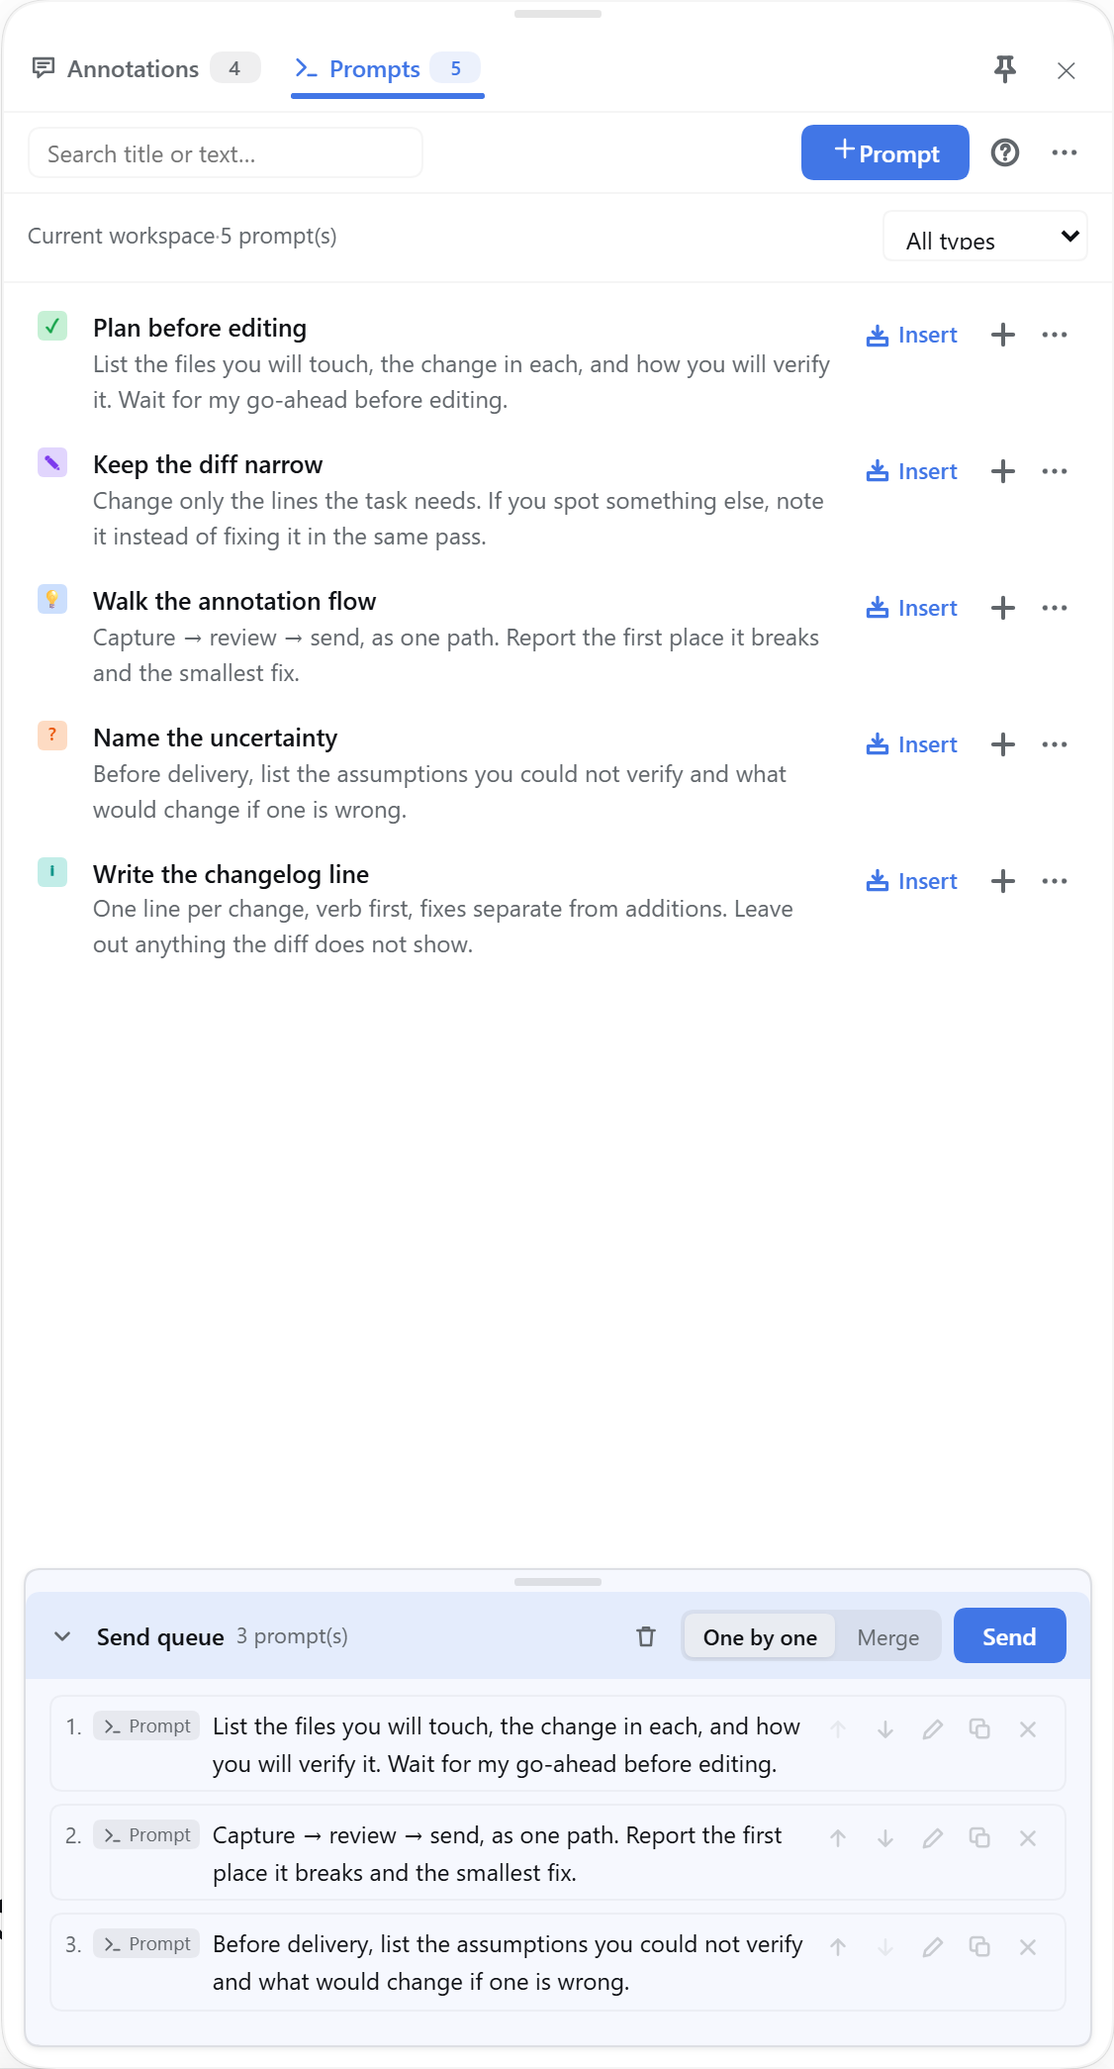
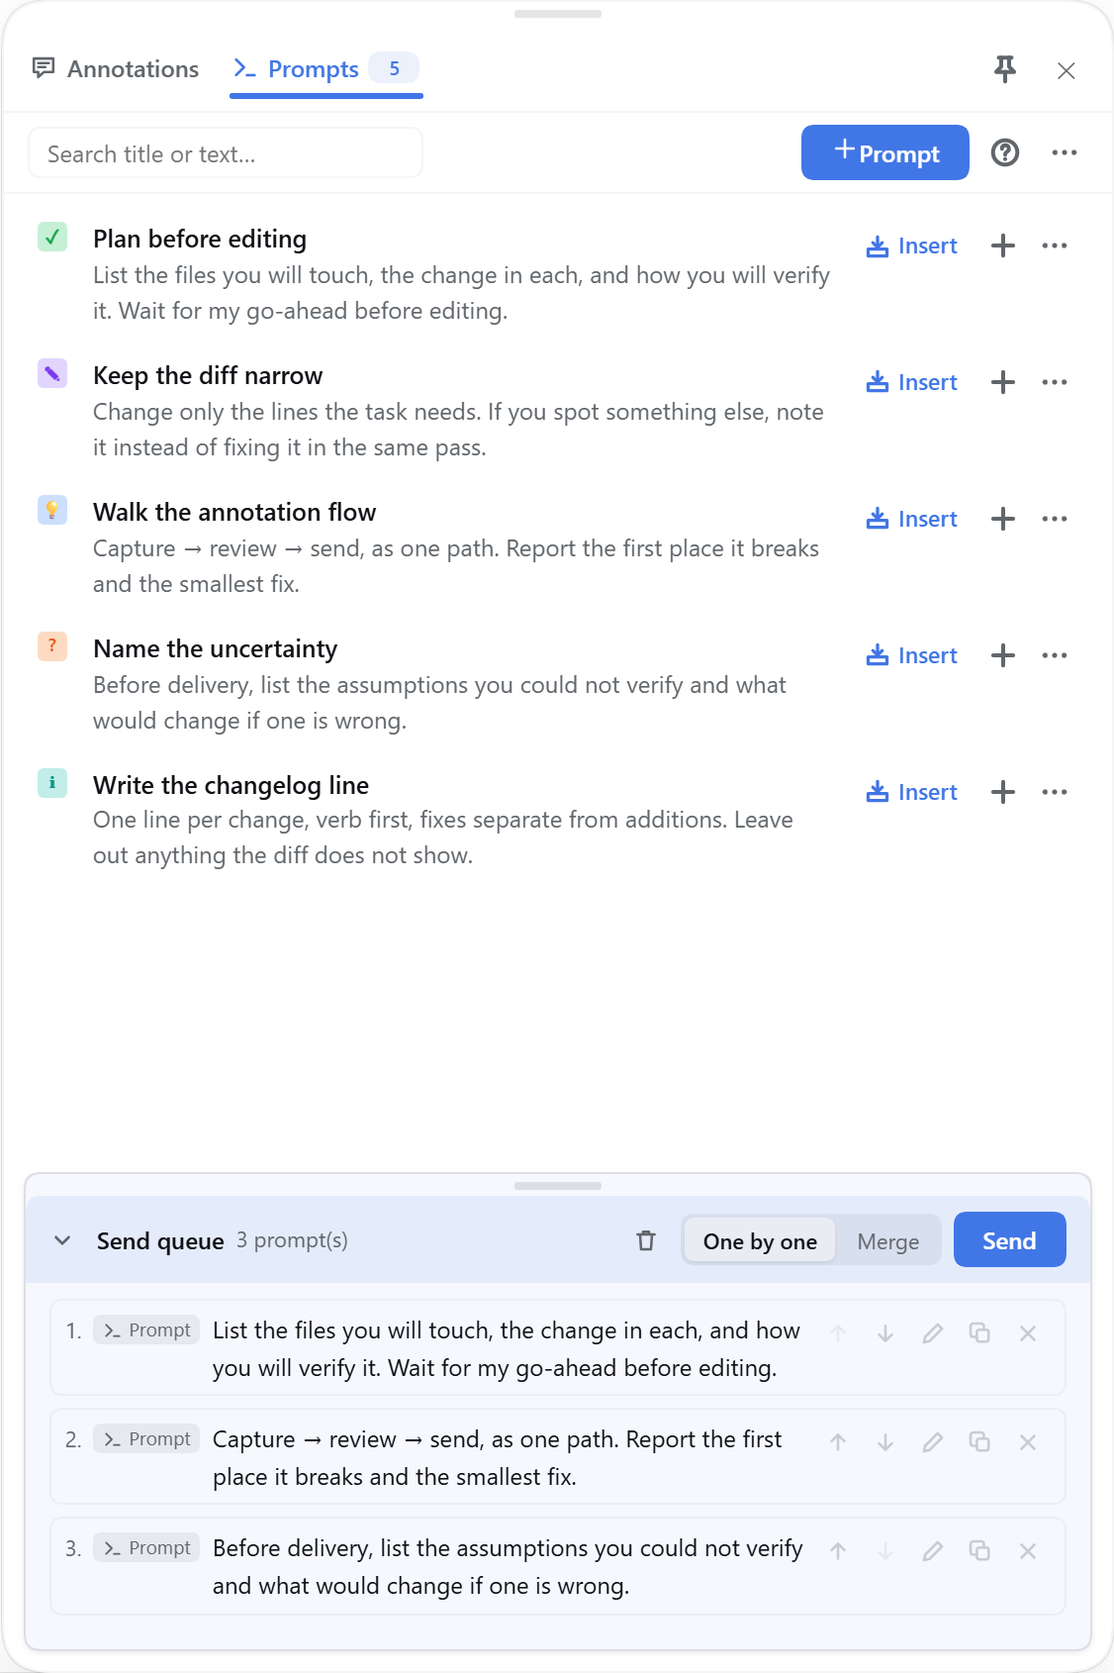
fix: clean up prompt editor controls and draft counts
Keep one type control while editing, drop the panel context line, and exclude unsaved drafts from mode counts. A second new click now reuses the open editor.

diff --git a/plugin/client.js b/plugin/client.js
@@ -122,8 +122,6 @@ window.__ModuleLoader__.load({
       'page.more': '更多',
       'page.contextNotes': '当前会话',
       'page.contextCount': '{n} 条批注',
-      'page.contextPrompts': '当前工作区',
-      'page.contextPromptCount': '{n} 条提示词',
       'page.reviewNotes': '整理批注',
       'help.open': '使用说明',
       'help.title': '提示池怎么用',
@@ -446,8 +444,6 @@ window.__ModuleLoader__.load({
       'page.more': 'More',
       'page.contextNotes': 'Current session',
       'page.contextCount': '{n} annotation(s)',
-      'page.contextPrompts': 'Current workspace',
-      'page.contextPromptCount': '{n} prompt(s)',
       'page.reviewNotes': 'Review annotations',
       'help.open': 'How it works',
       'help.title': 'How the prompt pool works',
@@ -2186,6 +2182,16 @@ window.__ModuleLoader__.load({
         if (family) counts['nested:' + family] = (counts['nested:' + family] || 0) + 1;
       }
       return counts;
+    }
+
+    /**
+     * A new row exists in the store as soon as its editor opens, so it can be
+     * patched on save. Tab counts must ignore it until that save happens.
+     */
+    function countPoolItems(items, editing) {
+      const list = Array.isArray(items) ? items : [];
+      if (!editing || editing.isNew !== true) return list;
+      return list.filter((item) => item.id !== editing.id);
     }
 
     /** Destinations offered when a captured draft is saved: the groups on show. */
@@ -4618,10 +4624,6 @@ window.__ModuleLoader__.load({
       const globalTabs = tabs.filter((entry) => entry.id === 'all' || entry.group === 'builtin' || entry.group === 'custom');
       const workspaceGroup = currentWorkspaceId ? 'workspace:' + currentWorkspaceId : '';
       const captureGroups = captureChoices(state.categories, workspaceList, currentWorkspaceId, state.settings);
-      const tabCounts = tabCountsOf(state.items.filter((item) => {
-        const family = familyOf(groupOf(item));
-        return family === 'builtin' || family === 'custom';
-      }));
       const [tab, setPageTab] = useState(() => {
         const stored = pageTabState.get().id;
         return stored && tabs.some((entry) => entry.id === stored) ? stored : fallbackTabFor(tabs);
@@ -4664,6 +4666,11 @@ window.__ModuleLoader__.load({
       useEffect(() => () => window.clearTimeout(statusTimer.current), []);
       const { editing, setEditing, startEdit, save, cancelEdit, pasteImages } = usePoolEditor(flash);
       const { trayEditing, setTrayEditing, saveTrayEdit, pasteTrayImages } = useTrayEditor(flash);
+      const countedItems = countPoolItems(state.items, editing);
+      const tabCounts = tabCountsOf(countedItems.filter((item) => {
+        const family = familyOf(groupOf(item));
+        return family === 'builtin' || family === 'custom';
+      }));
       // A stored tab can point at a group that was hidden or deleted since.
       useEffect(() => {
         if (tabs.some((entry) => entry.id === tab)) return;
@@ -5061,6 +5068,9 @@ window.__ModuleLoader__.load({
 
       /** The active scope decides the new item's classification. */
       const create = () => {
+        // One editor at a time: a second draft would leave the first one
+        // unsaved and counted again.
+        if (editing) return;
         if (scope === 'workspace' && !workspaceGroup) {
           flash({ kind: 'error', text: translate('status.noWorkspace') });
           return;
@@ -5069,6 +5079,7 @@ window.__ModuleLoader__.load({
           ? workspaceGroup
           : groupForTab(activeGlobalTab, '');
         setQuery('');
+        setTypeFilter('all');
         const item = poolActions.add({
           id: uid(),
           group,
@@ -5079,7 +5090,7 @@ window.__ModuleLoader__.load({
           createdAt: Date.now(),
           updatedAt: Date.now(),
         });
-        setEditing({ id: item.id, group, title: '', body: '', images: [], type: '' });
+        setEditing({ id: item.id, group, title: '', body: '', images: [], type: '', isNew: true });
       };
 
       const rowOf = (item, index) => renderPoolRow({
@@ -5122,7 +5133,7 @@ window.__ModuleLoader__.load({
           { className: 'pp-page-head' },
           h(ScopeBar, {
             value: activeMode,
-            counts: { notes: notesList.length, prompts: state.items.length },
+            counts: { notes: notesList.length, prompts: countedItems.length },
             onChange: switchMode,
           }),
           h(
@@ -5183,18 +5194,22 @@ window.__ModuleLoader__.load({
               { className: 'pp-prompt-bar' },
               h(PromptScopeBar, { value: scope, onChange: changePromptScope }),
               h('span', { className: 'pp-grow' }),
-              h(
-                'select',
-                {
-                  className: 'pp-input pp-type-filter',
-                  value: typeFilter,
-                  'aria-label': translate('row.type'),
-                  onChange: (event) => setTypeFilter(event.target.value),
-                },
-                h('option', { value: 'all' }, translate('row.allTypes')),
-                h('option', { value: 'none' }, translate('row.typeNone')),
-                PROMPT_TYPES.map((type) => h('option', { key: type.id, value: type.id }, translate(type.label))),
-              ),
+              // The editor carries its own type control; a second copy beside
+              // it would compete for the same decision.
+              editing
+                ? null
+                : h(
+                    'select',
+                    {
+                      className: 'pp-input pp-type-filter',
+                      value: typeFilter,
+                      'aria-label': translate('row.type'),
+                      onChange: (event) => setTypeFilter(event.target.value),
+                    },
+                    h('option', { value: 'all' }, translate('row.allTypes')),
+                    h('option', { value: 'none' }, translate('row.typeNone')),
+                    PROMPT_TYPES.map((type) => h('option', { key: type.id, value: type.id }, translate(type.label))),
+                  ),
             ),
         scope === 'global'
           ? h(
@@ -8959,7 +8974,6 @@ window.__ModuleLoader__.load({
         ...buildTabs(state.categories, workspaces.items, state.settings, currentWorkspaceId),
       ]));
       const [query, setQuery] = useState('');
-      const [typeFilter, setTypeFilter] = useState('all');
       const [scope, setScope] = useState(() => (
         props && (props.initialScope === 'global' || props.initialScope === 'workspace') ? props.initialScope : 'notes'
       ));
@@ -9149,14 +9163,11 @@ window.__ModuleLoader__.load({
 
       const items = useMemo(() => {
         if (scope === 'notes') return [];
-        const matchesType = (item) => typeFilter === 'all'
-          || (typeFilter === 'none' ? !normalizePromptType(item.type) : normalizePromptType(item.type) === typeFilter);
         const scoped = state.items.filter((item) => groupOf(item) === workspaceGroup);
-        const typed = scoped.filter(matchesType);
         const needle = query.trim().toLowerCase();
-        if (!needle) return typed;
-        return typed.filter((item) => (item.title + '\n' + item.body).toLowerCase().indexOf(needle) >= 0);
-      }, [state.items, scope, workspaceGroup, query, typeFilter]);
+        if (!needle) return scoped;
+        return scoped.filter((item) => (item.title + '\n' + item.body).toLowerCase().indexOf(needle) >= 0);
+      }, [state.items, scope, workspaceGroup, query]);
 
       const actions = props.inputActions;
       const canAct = actions && typeof actions.setDraft === 'function';
@@ -9288,6 +9299,8 @@ window.__ModuleLoader__.load({
       };
 
       const newItem = () => {
+        // One editor at a time, same reason as the page's create().
+        if (editing) return;
         if (!workspaceGroup) {
           flash({ kind: 'error', text: translate('status.noWorkspace') });
           return;
@@ -9304,7 +9317,7 @@ window.__ModuleLoader__.load({
           createdAt: Date.now(),
           updatedAt: Date.now(),
         });
-        setEditing({ id: item.id, group, title: '', body: '', images: [], type: '' });
+        setEditing({ id: item.id, group, title: '', body: '', images: [], type: '', isNew: true });
       };
 
       const deleteItem = (item, text) => {
@@ -9842,7 +9855,7 @@ window.__ModuleLoader__.load({
             { className: 'pp-panel-headline' },
             h(ScopeBar, {
               value: activeMode,
-              counts: { notes: notesList.length, prompts: state.items.filter((item) => groupOf(item) === workspaceGroup).length },
+              counts: { notes: notesList.length, prompts: countPoolItems(state.items, editing).filter((item) => groupOf(item) === workspaceGroup).length },
               onChange: switchMode,
             }),
             h('span', { className: 'pp-grow' }),
@@ -9916,30 +9929,7 @@ window.__ModuleLoader__.load({
                 ? h('button', { type: 'button', className: 'pp-link', onClick: openReview }, translate('page.reviewNotes'))
                 : null,
             )
-          : h(
-              'div',
-              { className: 'pp-prompt-bar' },
-              h(
-                'span',
-                { className: 'pp-note-context-text' },
-                translate('page.contextPrompts'),
-                h('span', { className: 'pp-context-sep', 'aria-hidden': true }, ' · '),
-                translate('page.contextPromptCount', { n: items.length }),
-              ),
-              h('span', { className: 'pp-grow' }),
-              h(
-                'select',
-                {
-                  className: 'pp-input pp-type-filter',
-                  value: typeFilter,
-                  'aria-label': translate('row.type'),
-                  onChange: (event) => setTypeFilter(event.target.value),
-                },
-                h('option', { value: 'all' }, translate('row.allTypes')),
-                h('option', { value: 'none' }, translate('row.typeNone')),
-                PROMPT_TYPES.map((type) => h('option', { key: type.id, value: type.id }, translate(type.label))),
-              ),
-            ),
+          : null,
         pendingCategory ? h(CategoryDeleteConfirm, { onConfirm: confirmCategoryDelete, onCancel: () => setPendingCategory(null) }) : null,
         confirmClear && tray.length > 0
           ? h(TrayClearConfirm, {
@@ -10012,7 +10002,7 @@ window.__ModuleLoader__.load({
               : items.length === 0
                 ? h(EmptyState, {
                     iconName: 'prompt',
-                    text: translate(query.trim() || typeFilter !== 'all' ? 'panel.emptyTab' : 'panel.empty'),
+                    text: translate(query.trim() ? 'panel.emptyTab' : 'panel.empty'),
                   })
                 : items.map(rowOf),
         ),

diff --git a/tools/verify/verify-destructive-actions.js b/tools/verify/verify-destructive-actions.js
@@ -140,6 +140,16 @@ const findNew = (tree) => nodes(tree, []).find(
 const findCancel = (tree) => nodes(tree, []).find(
   (node) => node.type === 'button' && Array.isArray(node.children) && node.children.indexOf('row.cancel') >= 0,
 );
+/** The mode tab's live count; null when the scope bar is missing. */
+const promptTabCount = (tree) => {
+  const bar = nodes(tree, []).find(
+    (node) => typeof node.type === 'function' && node.type.name === 'ScopeBar',
+  );
+  return bar && bar.props && bar.props.counts ? bar.props.counts.prompts : null;
+};
+const typeFilterCount = (tree) => nodes(tree, []).filter(
+  (node) => node.type === 'select' && String(node.props && node.props.className).indexOf('pp-type-filter') >= 0,
+).length;
 
 const panelProps = {
   sessionId: 's1',
@@ -330,6 +340,9 @@ for (const [slotName, props, label] of [
 
   // New then cancel must not leave an empty row; a search must not hide the new row.
   const beforeNew = itemCount();
+  const countBeforeNew = promptTabCount(tree);
+  const filtersBeforeNew = typeFilterCount(tree);
+  if (countBeforeNew === null) failures.push(`${label}: the prompts tab count was not found`);
   const search = findSearch(tree);
   if (search) {
     search.props.onChange({ target: { value: 'no-such-prompt' } });
@@ -343,12 +356,31 @@ for (const [slotName, props, label] of [
     const searchAfter = findSearch(tree);
     if (search && (!searchAfter || searchAfter.props.value !== '')) failures.push(`${label}: the search still hides the new row`);
     if (itemCount() !== beforeNew + 1) failures.push(`${label}: new did not add exactly one row`);
+    // The unsaved draft is a store row already; it must not inflate the mode
+    // count, and it must not add a second type selector beside the editor.
+    if (countBeforeNew !== null && promptTabCount(tree) !== countBeforeNew) {
+      failures.push(`${label}: the unsaved draft changed the tab count`);
+    }
+    if (typeFilterCount(tree) !== 0) failures.push(`${label}: the editor left ${typeFilterCount(tree)} type filter(s) on screen`);
+    // A second click while the editor is open must reuse that editor instead
+    // of leaving the first draft behind, uncounted.
+    const secondNew = findNew(tree);
+    if (secondNew) secondNew.props.onClick();
+    tree = render();
+    if (itemCount() !== beforeNew + 1) failures.push(`${label}: a second new left an extra draft behind`);
+    if (countBeforeNew !== null && promptTabCount(tree) !== countBeforeNew) {
+      failures.push(`${label}: a second new changed the tab count`);
+    }
     const cancel = findCancel(tree);
     if (!cancel) failures.push(`${label}: the editor's cancel button was not found`);
     else {
       cancel.props.onClick();
       tree = render();
       if (itemCount() !== beforeNew) failures.push(`${label}: cancel left ${itemCount() - beforeNew} empty row(s)`);
+      if (countBeforeNew !== null && promptTabCount(tree) !== countBeforeNew) {
+        failures.push(`${label}: cancel changed the tab count`);
+      }
+      if (typeFilterCount(tree) !== filtersBeforeNew) failures.push(`${label}: cancel did not restore the type filter`);
     }
   }
   if (failures.length === before) console.log(`[ok] ${label}: new then cancel leaves no empty row`);

diff --git a/CHANGELOG.md b/CHANGELOG.md
@@ -14,12 +14,15 @@ All notable changes to this project are documented here. The format follows
   **Current workspace** and **Global shared pool** with a quiet segmented control. The composer panel shows
   the same two modes and the workspace list only.
 - The annotation context line names the session and its count (`Current session · 5 annotations`) and
-  carries **Review annotations** on the right. Prompt mode adds the scope switch and the type filter on
-  the same row, so the mode switch is never mixed with filters or groups.
+  carries **Review annotations** on the right. On the page, prompt mode adds the scope switch and, when
+  no editor is open, the type filter on the same row; the composer panel keeps only the scope switch,
+  because its editor already owns the type control.
 - **Settings is a destination**, not a third tab row: it opens from the header menu, hides the browsing
   header, and offers two sections (**Annotations / Prompts**) with one back control. The global group
   order, seed reset, “All” switch and retention switches now live in the Prompts section; the separate
   Global settings tab was removed.
+- A new prompt stays a draft until **Save**: its temporary row is left out of the mode and group counts,
+  so the count reflects only stored prompts and changes after the save.
 - **Rows show one verb, one queue action and an overflow menu.** Prompt rows are **Insert · + · ⋯**
   (edit / duplicate / delete); annotation rows keep **Locate** on the left and are **Insert · ⋯**
   (save as prompt / delete). The old five-icon strip is gone, every destructive action still asks first,
@@ -34,19 +37,19 @@ All notable changes to this project are documented here. The format follows
   coloured focal points.
 - The page and panel headers were rebuilt: mode switch on the left, search / primary action / overflow
   and help on the right. **Save current input** moved into the overflow menu and appears as a normal
-  action only when it applies; the type filter moved next to the prompt scope. The panel dropped its
-  duplicated title/slogan row and accent gradient.
+  action only when it applies; the type filter moved next to the prompt scope on the page. The panel
+  dropped its duplicated title/slogan row and accent gradient.
 - The reading column is capped at **760px** and centered (rows, list, queue) while the scrollbar stays at
   the edge. Rows use a 44px minimum height, a 13px/600 title, 12px body and 16px/1.5px line icons;
   settings cards lost their drop shadows.
 - Empty states and verbs now describe the model directly: annotations explain right-click **Annotate**,
-  prompts explain insert and queue, and the send queue is consistently called **Send tray** (待发送)
+  prompts explain insert and queue, and the send queue is consistently called **Send queue** (待发送队列)
   instead of Outbox in the UI.
 
 ### Added
 
 - A **How it works** entry (question-mark button in the header) with a two-column card explaining
-  annotations, prompts and the shared tray. It is a reference, not an automatic tour.
+  annotations, prompts and the shared queue. It is a reference, not an automatic tour.
 - The annotation context line exposes **Review annotations** only when the session has annotations, and
   both mode tabs carry live counts.
 

diff --git a/README.zh.md b/README.zh.md
@@ -76,10 +76,11 @@ DeepSeek Harness 里的提示词暂存池：草稿还没想好时先放在池子
   「提示词」模式（当前工作区 / 全局共享池）显示，切到「批注」模式时隐藏，队列为空时整条不渲染。
   宿主不支持直接入会话队列时，整理卡的「发送」会退化为把提示词插入输入框。
 - **提示词类型**——每条提示词最多一个固定类型：决策 / 问题 / 意见 / 思路 / 补充 / 待办 / 灵感，也可以留空为
-  未分类。批注转提示词时自动预填（同意和反对都归为决策）；类型可以在保存步骤或编辑框里改，列表顶部可以按类型筛选。
+  未分类。批注转提示词时自动预填（同意和反对都归为决策）；类型可以在保存步骤或编辑框里改，侧栏页的列表顶部可以按类型筛选。
   模板、工作习惯、便签是分组，不是类型。
-- **输入框面板**——搜索、当前工作区提示词列表、类型筛选、行内「插入 / ＋ / ⋯」，底部是共用的待发送队列
-  （折叠、清空、逐条/合并、发送）。顶部边缘可以拖动改高度，左边缘可以拖动改宽度；点「钉住」后点面板外面也不会关。
+- **输入框面板**——搜索、当前工作区提示词列表、行内「插入 / ＋ / ⋯」，底部是共用的待发送队列
+  （折叠、清空、逐条/合并、发送）。类型在编辑框里选，新建提示词保存前不计入数量。顶部边缘可以拖动改高度，
+  左边缘可以拖动改宽度；点「钉住」后点面板外面也不会关。
   面板分「批注 / 提示词」两个模式，默认停留在批注；不在面板里放全局共享池。
 - **侧栏页**——同一套数据的完整工作台：「批注」，以及可切换当前工作区 / 全局共享池的「提示词」。工作区提示词用
   类型筛选；全局共享池保留分组 Tab，可以继续管理内置与自定义分组。默认停留在批注。

diff --git a/README.md b/README.md
@@ -95,12 +95,13 @@ the conversation, so the agent gets a precise instruction and you do not lose th
 - **Prompt types** — each prompt has at most one fixed type: decision / question / opinion / idea /
   supplement / to-do / inspiration, or unclassified. Saving a note seeds it from the annotation kind
   (agree and disagree both map to decision); the type can be changed in the save step or the editor and
-  filtered from the list header. Templates, habits and notes are groups, not types.
-- **Composer panel** — search, the current workspace's prompt list, type filtering, per-row **Insert**,
+  filtered from the sidebar page's list header. Templates, habits and notes are groups, not types.
+- **Composer panel** — search, the current workspace's prompt list, per-row **Insert**,
   **+** and **⋯**, and the shared send queue with collapse, clear and send. Its two modes are
   **Annotations** (current session) and **Prompts** (current workspace); the panel never shows the global
-  shared pool. Drag its top edge to change the height, or its left edge to change the width; pin it to
-  keep it open over the conversation.
+  shared pool. The editor owns the prompt type, and a new prompt is not counted until it is saved. Drag
+  its top edge to change the height, or its left edge to change the width; pin it to keep it open over
+  the conversation.
 - **Sidebar page** — the full workbench over the same data: **Annotations**, and **Prompts** with
   **Current workspace / Global shared pool**, defaulting to annotations. Workspace prompts use the type
   filter; the global shared pool keeps the existing group tabs for the built-in and custom groups.
